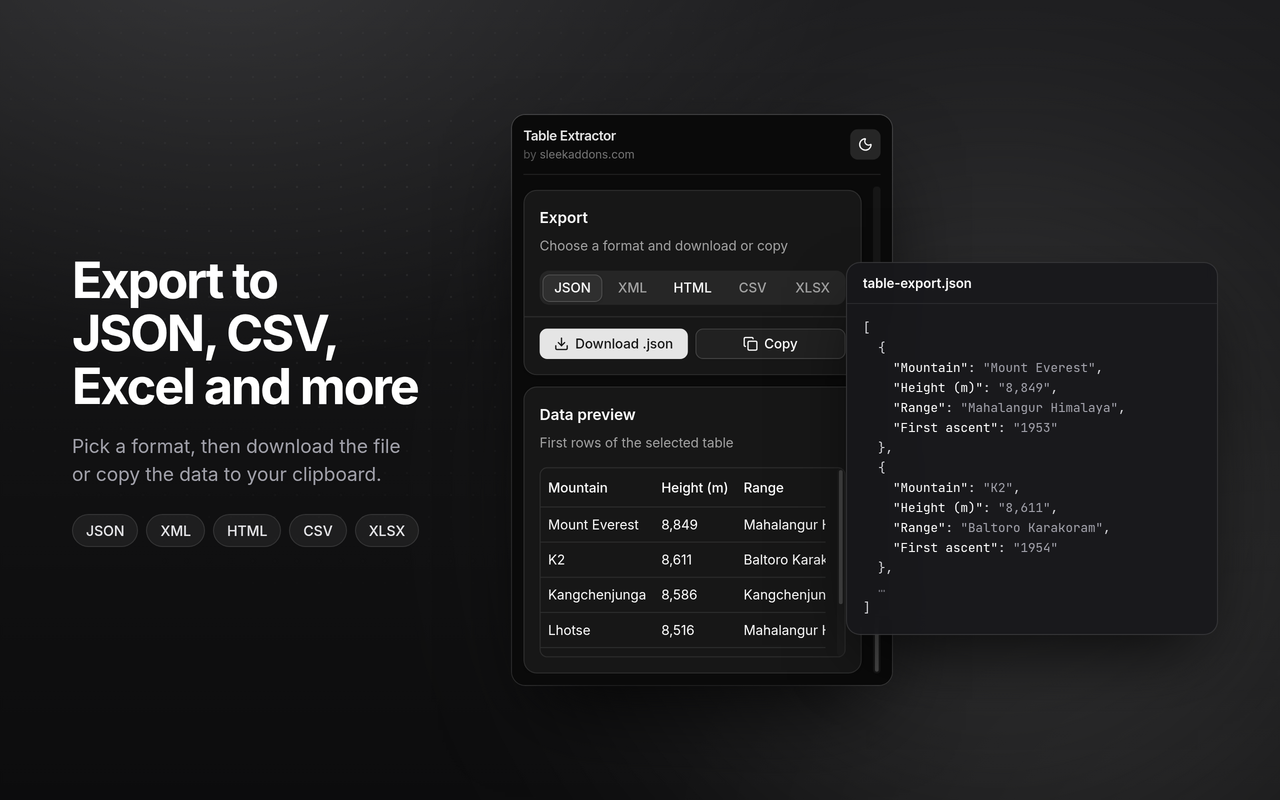
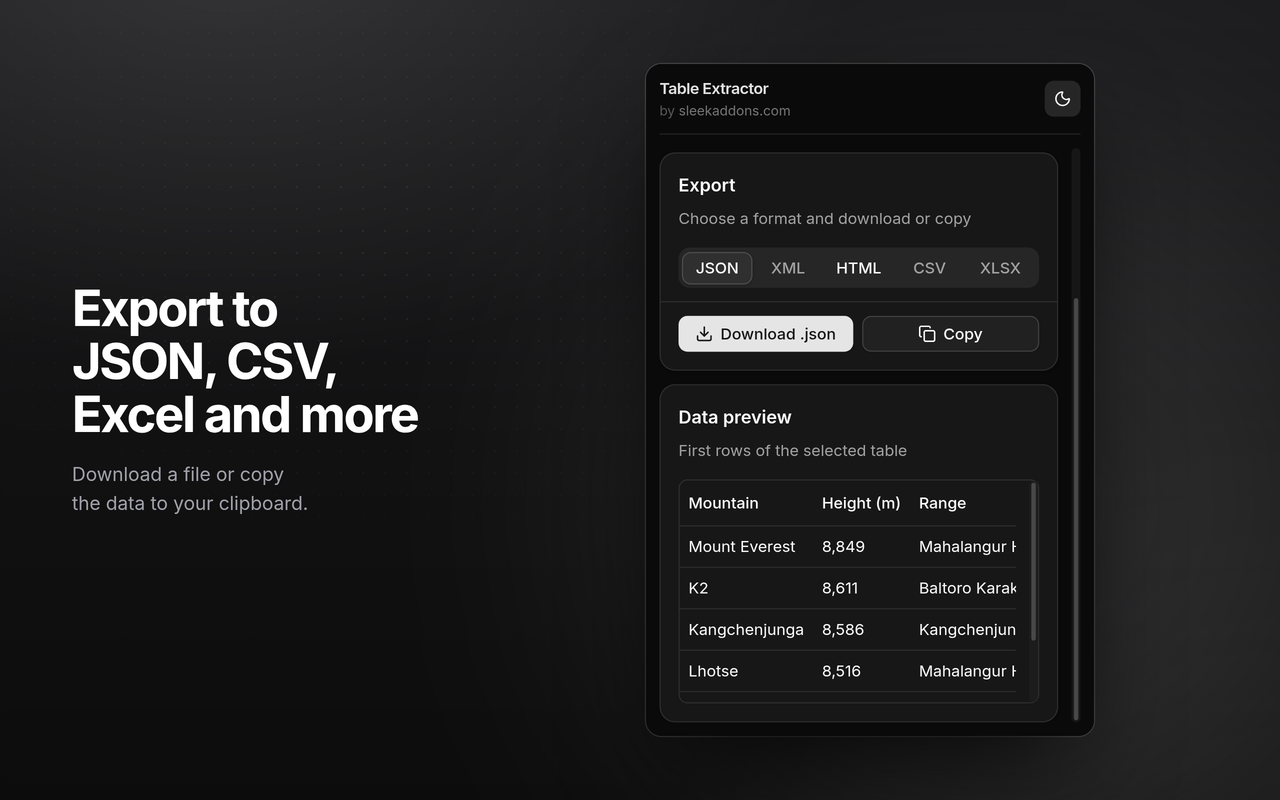
feat: update screenshots and refine scene descriptions for clarity

diff --git a/scripts/screenshots/scenes/table-extractor.ts b/scripts/screenshots/scenes/table-extractor.ts
@@ -1,5 +1,4 @@
-import { toJson } from '../../../extensions/table-extractor/lib/exporters'
-import { escapeHtml, type Scene } from '../stage'
+import type { Scene } from '../stage'
 
 const TAB = { url: 'https://example.com/highest-mountains', title: 'Highest mountains' }
 const PAGE = '/__stage/pages/table.html'
@@ -8,39 +7,6 @@ const READY = { frame: 'popup', selector: 'text=1 table detected on this page' }
 const SELECT_TABLE = [{ click: 'button:has-text("Table 1")' }, { waitFor: 'text=…5 more rows' }] as const
 const SHOW_EXPORT = { scrollIntoView: '[data-slot="card"]:has-text("Choose a format")', offset: 0 } as const
 
-/** The table on the demo page (assets/pages/table.html), as the extension reads it. */
-const TABLE = {
-  headers: ['Mountain', 'Height (m)', 'Range', 'First ascent'],
-  rows: [
-    ['Mount Everest', '8,849', 'Mahalangur Himalaya', '1953'],
-    ['K2', '8,611', 'Baltoro Karakoram', '1954'],
-    ['Kangchenjunga', '8,586', 'Kangchenjunga Himalaya', '1955'],
-    ['Lhotse', '8,516', 'Mahalangur Himalaya', '1956'],
-    ['Makalu', '8,485', 'Mahalangur Himalaya', '1955'],
-    ['Cho Oyu', '8,188', 'Mahalangur Himalaya', '1954'],
-    ['Dhaulagiri I', '8,167', 'Dhaulagiri Himalaya', '1960'],
-    ['Manaslu', '8,163', 'Manaslu Himalaya', '1956'],
-    ['Nanga Parbat', '8,126', 'Nanga Parbat Himalaya', '1953'],
-    ['Annapurna I', '8,091', 'Annapurna Himalaya', '1950'],
-  ],
-}
-
-/** The first two records of what the extension's JSON export produces for that table. */
-function jsonExcerpt(): string {
-  const lines = toJson(TABLE).split('\n')
-  const recordLines = TABLE.headers.length + 2
-  return [
-    ...lines.slice(0, 1 + 2 * recordLines).map((line) =>
-      escapeHtml(line).replace(
-        /^(\s*)(&quot;.*?&quot;)(: )(&quot;.*&quot;)(,?)$/,
-        '$1<span class="tok-key">$2</span>$3<span class="tok-str">$4</span>$5',
-      ),
-    ),
-    '  <span class="tok-dim">…</span>',
-    ']',
-  ].join('\n')
-}
-
 export const tableExtractorScenes: Scene[] = [
   {
     file: '1.png',
@@ -48,7 +14,7 @@ export const tableExtractorScenes: Scene[] = [
     layout: 'band',
     theme: 'dark',
     headline: 'Extract any web table in one click',
-    subhead: 'Table Extractor finds the tables on a page so you can preview them and save them as a file.',
+    subhead: 'Preview any table on a page and save it as a file.',
     tab: TAB,
     page: PAGE,
     ui: POPUP,
@@ -61,18 +27,13 @@ export const tableExtractorScenes: Scene[] = [
     layout: 'split-left',
     theme: 'dark',
     headline: 'Export to JSON, CSV, Excel and more',
-    subhead: 'Pick a format, then download the file or copy the data to your clipboard.',
-    chips: ['JSON', 'XML', 'HTML', 'CSV', 'XLSX'],
+    subhead: 'Download a file or copy the data to your clipboard.',
     tab: TAB,
     page: PAGE,
     showPage: false,
-    ui: { ...POPUP, at: { left: 512, top: 115 }, scale: 0.95 },
+    ui: POPUP,
     ready: READY,
     actions: [...SELECT_TABLE, SHOW_EXPORT],
-    extras: `<div class="card" style="left:846px;top:262px;width:372px">
-      <div class="card-title">table-export.json</div>
-      <pre>${jsonExcerpt()}</pre>
-    </div>`,
   },
   {
     file: '3.png',
@@ -80,8 +41,7 @@ export const tableExtractorScenes: Scene[] = [
     layout: 'split-left',
     theme: 'dark',
     headline: 'Preview first, then save',
-    subhead: 'Check the rows and columns before you export. Everything runs locally in your browser.',
-    chips: ['No sign-up', 'No tracking', 'Free'],
+    subhead: 'Everything runs locally in your browser.',
     tab: TAB,
     page: PAGE,
     ui: POPUP,

diff --git a/scripts/screenshots/assets/stage.css b/scripts/screenshots/assets/stage.css
@@ -117,26 +117,6 @@ body {
   max-width: 820px;
 }
 
-.chips {
-  display: flex;
-  flex-wrap: wrap;
-  gap: 8px;
-  margin-top: 4px;
-}
-
-.chip {
-  display: inline-flex;
-  align-items: center;
-  padding: 7px 13px;
-  white-space: nowrap;
-  border-radius: 999px;
-  border: 1px solid rgba(255, 255, 255, 0.1);
-  background: rgba(255, 255, 255, 0.06);
-  font-size: 14px;
-  font-weight: 520;
-  color: #e4e4e7;
-}
-
 /* Promo tiles: extension name and tagline (sizes set inline per tile). */
 .copy.promo {
   top: 0;
@@ -409,53 +389,6 @@ body {
 .popup iframe {
   display: block;
   border: 0;
-}
-
-/* ── Free-form decorations used by individual scenes ─── */
-
-.card {
-  position: absolute;
-  z-index: 4;
-  border-radius: 14px;
-  background: rgba(24, 24, 27, 0.92);
-  border: 1px solid rgba(255, 255, 255, 0.12);
-  box-shadow: 0 30px 70px -20px rgba(0, 0, 0, 0.8);
-  color: #e4e4e7;
-  -webkit-backdrop-filter: blur(10px);
-  backdrop-filter: blur(10px);
-}
-
-.card-title {
-  display: flex;
-  align-items: center;
-  gap: 8px;
-  padding: 12px 16px;
-  border-bottom: 1px solid rgba(255, 255, 255, 0.08);
-  font-size: 13px;
-  font-weight: 600;
-  color: #fafafa;
-}
-
-.card pre {
-  margin: 0;
-  padding: 14px 16px 16px;
-  font-family: 'JetBrains Mono Variable', ui-monospace, monospace;
-  font-size: 12.5px;
-  line-height: 1.6;
-  color: #d4d4d8;
-  white-space: pre;
-}
-
-.tok-key {
-  color: #fafafa;
-}
-
-.tok-str {
-  color: #a1a1aa;
-}
-
-.tok-dim {
-  color: #71717a;
 }
 
 /* Loaded for the extension to read, but not part of the picture. */

diff --git a/scripts/screenshots/stage.ts b/scripts/screenshots/stage.ts
@@ -51,8 +51,6 @@ export interface Scene {
   /** Large headline; trusted HTML (may contain <br>). Promo tiles show the extension name instead. */
   headline: string
   subhead?: string
-  /** Small pills under the subhead (split layouts only). */
-  chips?: string[]
   /**
    * Where the copy goes: beside the UI, or as a band above it. `promo` is for
    * promo tiles: the extension's name and subhead on the left, and the popup
@@ -82,7 +80,7 @@ export interface Scene {
   /** Selector that must be visible before the actions run. */
   ready?: { frame: FrameRole; selector: string }
   actions?: Action[]
-  /** Extra HTML placed on the canvas (cards, …). */
+  /** Extra HTML placed on the canvas. */
   extras?: string
   /** Extra JS run in the stage once it has loaded. */
   stageScript?: string
@@ -234,14 +232,9 @@ function renderPromoCopy(scene: Scene, name: string): string {
 function renderCopy(scene: Scene, name: string): string {
   if (scene.layout === 'promo') return renderPromoCopy(scene, name)
   const side = scene.layout === 'band' ? 'band' : `split ${scene.layout === 'split-left' ? 'left' : 'right'}`
-  const chips =
-    scene.chips?.length && scene.layout !== 'band'
-      ? `<div class="chips">${scene.chips.map((c) => `<span class="chip">${escapeHtml(c)}</span>`).join('')}</div>`
-      : ''
   return `<div class="copy ${side}">
     <h1 class="headline">${keepHyphenatedWords(scene.headline)}</h1>
     ${scene.subhead ? `<p class="subhead">${copyText(scene.subhead)}</p>` : ''}
-    ${chips}
   </div>`
 }
 

diff --git a/scripts/screenshots/scenes/llm-client.ts b/scripts/screenshots/scenes/llm-client.ts
@@ -119,7 +119,7 @@ export const llmClientScenes: Scene[] = [
     layout: 'band',
     theme: 'dark',
     headline: 'Chat with AI next to any page',
-    subhead: 'Summarize or ask questions about what you’re reading, answered by local or cloud AI.',
+    subhead: 'Ask about what you’re reading, with local or cloud AI.',
     tab: ARTICLE_TAB,
     page: '/__stage/pages/text.html',
     ui: { kind: 'sidepanel', width: 420 },
@@ -134,8 +134,7 @@ export const llmClientScenes: Scene[] = [
     layout: 'split-left',
     theme: 'dark',
     headline: 'Switch between all your models',
-    subhead: 'Every model on your Ollama server or OpenAI-compatible API is one click away, local or in the cloud.',
-    chips: ['Ollama', 'OpenAI-compatible APIs', 'Multiple servers'],
+    subhead: 'Ollama or any OpenAI-compatible API, local or in the cloud.',
     tab: ARTICLE_TAB,
     ui: { kind: 'popup', width: 600, height: 600 },
     storage: storage(SUMMARY, false),
@@ -149,8 +148,7 @@ export const llmClientScenes: Scene[] = [
     layout: 'split-right',
     theme: 'dark',
     headline: 'Private by design',
-    subhead: 'Chats go only to the server you choose and are saved in your browser.',
-    chips: ['No account', 'Saved locally', 'Markdown & code'],
+    subhead: 'Chats go only to your server and stay in your browser.',
     tab: ARTICLE_TAB,
     ui: { kind: 'popup', width: 600, height: 600 },
     storage: storage(CODE, false),

diff --git a/scripts/screenshots/scenes/website-blocker.ts b/scripts/screenshots/scenes/website-blocker.ts
@@ -90,8 +90,7 @@ export const websiteBlockerScenes: Scene[] = [
     layout: 'split-left',
     theme: 'dark',
     headline: 'Block the sites that steal your focus',
-    subhead: 'Block a site all the time, only during set hours, or once its daily time limit is used up.',
-    chips: ['Per-site stats', 'Pause any rule'],
+    subhead: 'Always, on a schedule, or after a daily time limit.',
     tab: NEWS_TAB,
     ui: POPUP,
     storage: STORAGE,
@@ -103,8 +102,7 @@ export const websiteBlockerScenes: Scene[] = [
     layout: 'split-right',
     theme: 'dark',
     headline: 'Daily time limits that hold',
-    subhead: 'Give yourself 30 minutes a day on a site. When the time is up, it stays blocked until tomorrow.',
-    chips: ['Per-site limits', 'Resets daily'],
+    subhead: 'When your time is up, the site stays blocked until tomorrow.',
     tab: NEWS_TAB,
     ui: POPUP,
     storage: STORAGE,
@@ -117,7 +115,7 @@ export const websiteBlockerScenes: Scene[] = [
     layout: 'band',
     theme: 'dark',
     headline: 'Focus hours on your schedule',
-    subhead: 'Block social media during work hours and let it back in when you’re done for the day.',
+    subhead: 'Social media stays blocked during your work hours.',
     tab: {
       url: 'chrome-extension://bfbhaeaddmhmiilkmolfjfppknmimpei/blocked.html?domain=social.example.com&reason=schedule',
       title: 'Website Blocker',

diff --git a/scripts/screenshots/scenes/pihole-manager.ts b/scripts/screenshots/scenes/pihole-manager.ts
@@ -63,8 +63,7 @@ export const piholeManagerScenes: Scene[] = [
     layout: 'split-left',
     theme: 'dark',
     headline: 'Every Pi-hole, one click away',
-    subhead: 'See query stats and switch ad blocking on or off for all your Pi-hole instances at once.',
-    chips: ['Pi-hole v6', 'Multiple instances'],
+    subhead: 'Query stats and blocking for all your instances at once.',
     tab: NEWS_TAB,
     ui: POPUP,
     storage: { local: { pihole_instances: INSTANCES } },
@@ -78,8 +77,7 @@ export const piholeManagerScenes: Scene[] = [
     layout: 'split-right',
     theme: 'dark',
     headline: 'Pause blocking when a site breaks',
-    subhead: 'Turn blocking off for a few seconds or minutes. It switches back on by itself.',
-    chips: ['10 s', '30 s', '5 min', 'Indefinitely'],
+    subhead: 'Blocking switches back on by itself.',
     tab: NEWS_TAB,
     ui: POPUP,
     storage: { local: { pihole_instances: INSTANCES } },
@@ -97,7 +95,7 @@ export const piholeManagerScenes: Scene[] = [
     layout: 'split-left',
     theme: 'dark',
     headline: 'Allow or block the site you’re on',
-    subhead: 'See whether the current domain is on your allow or deny list, and change it in one click.',
+    subhead: 'Check the current domain and change it in one click.',
     tab: NEWS_TAB,
     ui: POPUP,
     storage: { local: { pihole_instances: INSTANCES } },

diff --git a/scripts/screenshots/scenes/breakpoint-viewer.ts b/scripts/screenshots/scenes/breakpoint-viewer.ts
@@ -64,7 +64,7 @@ export const breakpointViewerScenes: Scene[] = [
     layout: 'band',
     theme: 'dark',
     headline: 'See the active breakpoint on any website',
-    subhead: 'A color-coded badge shows the current breakpoint and viewport width while you resize.',
+    subhead: 'A color-coded badge shows the breakpoint and viewport width.',
     tab: SITE_TAB,
     page: PAGE,
     ui: POPUP,
@@ -77,8 +77,7 @@ export const breakpointViewerScenes: Scene[] = [
     layout: 'split-right',
     theme: 'dark',
     headline: 'Tailwind, Bootstrap, Bulma or Foundation',
-    subhead: 'Load your framework’s breakpoints with one click, or define your own.',
-    chips: ['4 framework presets', 'Custom breakpoints', 'Any corner'],
+    subhead: 'Load your framework’s breakpoints in one click.',
     tab: SITE_TAB,
     page: PAGE,
     ui: POPUP,
@@ -96,8 +95,7 @@ export const breakpointViewerScenes: Scene[] = [
     layout: 'split-left',
     theme: 'dark',
     headline: 'Your breakpoints, on your sites',
-    subhead: 'Name and color your own breakpoints and pick exactly which sites show the badge.',
-    chips: ['Wildcard patterns', 'Allow or exclude sites'],
+    subhead: 'Define your own breakpoints and choose where the badge shows.',
     tab: SITE_TAB,
     page: PAGE,
     ui: POPUP,
